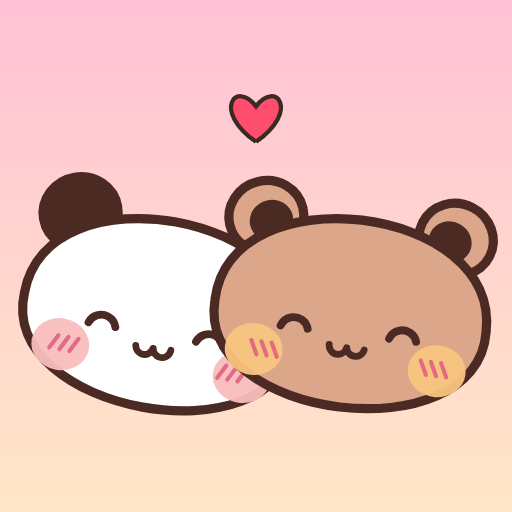
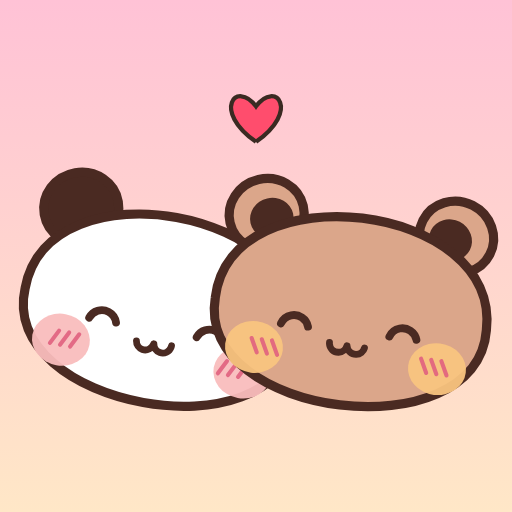
Corp, manute si picioruse intr-o singura silueta moale (fara incheieturi vizibile), si la sofer

diff --git a/src/char/draw.ts b/src/char/draw.ts
@@ -106,55 +106,50 @@ export function drawCharacter(
 
   const bodyFill = p.sickTint > 0 ? mix(spec.body, '#bfe3a6', p.sickTint * 0.45) : spec.body;
 
-  // --- piciorușe scurte (in mare parte ascunse sub burtica) ---
-  for (const side of [-1, 1] as const) {
-    const lift2 = side < 0 ? p.legL : p.legR;
-    const ox = side < 0 ? p.legLx : p.legRx;
+  // Corpul, manutele si piciorusele sunt O SINGURA forma moale (ca la stickere):
+  // intai conturam toate bucatile cu linie dubla, apoi le umplem fara contur,
+  // asa ca nu se mai vad "incheieturi" intre ele.
+  const legPath = (side: -1 | 1) => {
+    const lift2 = side < 0 ? p.legL : p.legR, ox = side < 0 ? p.legLx : p.legRx;
+    ctx.beginPath(); ctx.ellipse(side * 11 + ox, -5 - lift2, 8.5, 6.5, 0, 0, 7);
+  };
+  const bodyPath = () => {
     ctx.beginPath();
-    ctx.roundRect(side * 11 - 7 + ox, -9 - lift2, 14, 10, 6);
-    fillStroke(ctx, bodyFill, O);
-    if (!p.back) { // pernite
-      ctx.fillStyle = spec.id === 'dudu' ? '#c8917a' : spec.id === 'bubu' ? '#4a2a22' : '#ffd3dd';
-      ell(ctx, side * 11 + ox, -3.5 - lift2, 3.4, 2); ctx.fill();
-    }
-  }
-
-  // --- corp: mic si rotofei ca o para ---
-  ctx.save();
-  ctx.translate(p.hip, 0);
-  ctx.beginPath();
-  ctx.moveTo(-18, -34);
-  ctx.bezierCurveTo(-28, -26, -29, -3, -15, -2);
-  ctx.lineTo(15, -2);
-  ctx.bezierCurveTo(29, -3, 28, -26, 18, -34);
-  ctx.closePath();
-  fillStroke(ctx, bodyFill, O);
-  ctx.save(); ctx.clip();
-  ctx.fillStyle = spec.shade; ctx.globalAlpha = 0.4;
-  ell(ctx, 5, -4, 24, 8); ctx.fill();
+    ctx.moveTo(p.hip - 18, -34);
+    ctx.bezierCurveTo(p.hip - 29, -26, p.hip - 30, -4, p.hip - 15, -3);
+    ctx.lineTo(p.hip + 15, -3);
+    ctx.bezierCurveTo(p.hip + 30, -4, p.hip + 29, -26, p.hip + 18, -34);
+    ctx.closePath();
+  };
+  const armTf = (side: -1 | 1, ang: number) => { ctx.translate(side * 19 + p.hip * 0.5, -25); ctx.rotate(side < 0 ? ang : -ang); };
+  const armPath = () => { ctx.beginPath(); ctx.ellipse(0, 5, 6.5, 8.5, 0, 0, 7); };
+  const silhouette = (mode: 'stroke' | 'fill') => {
+    const doIt = () => { if (mode === 'stroke') ctx.stroke(); else ctx.fill(); };
+    for (const side of [-1, 1] as const) { legPath(side); doIt(); }
+    bodyPath(); doIt();
+    for (const [side, ang] of [[-1, p.armL], [1, p.armR]] as const) { ctx.save(); armTf(side, ang); armPath(); doIt(); ctx.restore(); }
+  };
+  ctx.lineJoin = 'round'; ctx.strokeStyle = O; ctx.lineWidth = LW * 2;
+  silhouette('stroke');
+  ctx.fillStyle = bodyFill;
+  silhouette('fill');
+  // umbra moale pe burtica + talpile
+  ctx.save(); bodyPath(); ctx.clip();
+  ctx.fillStyle = spec.shade; ctx.globalAlpha = 0.35; ell(ctx, p.hip + 5, -4, 24, 7); ctx.fill();
   ctx.restore();
-  if (p.back) { // codita
-    ell(ctx, 0, -12, 6, 5.5); fillStroke(ctx, spec.tail, O, 2);
+  if (!p.back) for (const side of [-1, 1] as const) {
+    const lift2 = side < 0 ? p.legL : p.legR, ox = side < 0 ? p.legLx : p.legRx;
+    ctx.fillStyle = spec.id === 'dudu' ? '#c8917a' : spec.id === 'bubu' ? '#4a2a22' : '#ffd3dd';
+    ell(ctx, side * 11 + ox, -2.5 - lift2, 4.2, 2.2); ctx.fill();
   }
-  ctx.restore();
+  if (p.back) { ell(ctx, p.hip, -10, 6, 5.5); fillStroke(ctx, spec.tail, O, 2); }
 
   if (outfit && outfit.neck !== 'none' && !p.back) drawNeckItem(ctx, outfit.neck, time);
-  // --- manute scurte ---
-  const arm = (side: -1 | 1, ang: number, prop: PropType, propRot: number) => {
-    ctx.save();
-    ctx.translate(side * 21 + p.hip * 0.5, -25);
-    ctx.rotate(side < 0 ? ang : -ang);
-    capsule(ctx, 11, 7);
-    fillStroke(ctx, bodyFill, O);
-    if (prop !== 'none') {
-      ctx.translate(0, 11);
-      ctx.rotate(propRot * (side < 0 ? 1 : -1));
-      drawProp(ctx, prop, O, time);
-    }
-    ctx.restore();
-  };
-  arm(-1, p.armL, p.propL, p.propRotL);
-  arm(1, p.armR, p.propR, p.propRotR);
+  // recuzita din labute
+  for (const [side, ang, prop, pr] of [[-1, p.armL, p.propL, p.propRotL], [1, p.armR, p.propR, p.propRotR]] as const) {
+    if (prop === 'none') continue;
+    ctx.save(); armTf(side, ang); ctx.translate(0, 11); ctx.rotate(pr * (side < 0 ? 1 : -1)); drawProp(ctx, prop, O, time); ctx.restore();
+  }
 
   drawHead(ctx, spec, p, time, -56);
   ctx.restore();

diff --git a/src/world/vehicles.ts b/src/world/vehicles.ts
@@ -198,22 +198,25 @@ export function drawDriverSide(c: CanvasRenderingContext2D, spec: CharSpec, x: n
   const fill = (col: string, lw = 2.4) => { c.fillStyle = col; c.fill(); c.strokeStyle = O; c.lineWidth = lw; c.stroke(); };
   // piciorul din spate (mai inchis)
   c.save(); c.globalAlpha = 0.9;
-  c.beginPath(); c.roundRect(-2, -8, 20, 12, 6); fill(dark);
-  c.beginPath(); c.roundRect(12, -5, 11, 15, 5.5); fill(dark);
+  c.beginPath(); c.ellipse(8, -2, 11, 7, 0, 0, 7); fill(dark);
+  c.beginPath(); c.ellipse(17, 7, 6, 8, 0, 0, 7); fill(dark);
   c.restore();
   // mana din spate (pe volan, partial ascunsa)
-  if (drive) { c.save(); c.translate(-2, -24); c.rotate(-0.2 + steer * 0.4); c.beginPath(); c.roundRect(-5, -5.5, 26, 11, 5.5); fill(dark); c.restore(); }
-  // corpul asezat, aplecat putin in fata
-  c.save(); c.rotate(0.12);
-  c.beginPath(); c.moveTo(-17, 2); c.bezierCurveTo(-25, -14, -18, -32, 0, -33); c.bezierCurveTo(18, -33, 24, -14, 16, 2); c.closePath(); fill(body);
-  // codita
-  c.beginPath(); c.arc(-15, -4, 5, 0, 7); fill(spec.tail, 1.8);
-  c.restore();
-  // piciorul din fata: coapsa inainte, gamba in jos spre pedala, talpa cu pernite
-  c.beginPath(); c.roundRect(-2, -10, 23, 13, 6.5); fill(body);
-  c.beginPath(); c.roundRect(14, -6, 12, 16, 6); fill(body);
-  c.beginPath(); c.ellipse(21, 11, 8, 4.5, 0, 0, 7); fill(body);
-  c.fillStyle = pad; c.beginPath(); c.ellipse(23, 12.5, 3.4, 2, 0, 0, 7); c.fill();
+  if (drive) { c.save(); c.translate(-2, -24); c.rotate(-0.2 + steer * 0.4); c.beginPath(); c.ellipse(10, 0, 12, 6, 0, 0, 7); fill(dark); c.restore(); }
+  // corpul, piciorul din fata si manuta din fata = o singura forma moale (fara "incheieturi")
+  const parts = (mode: 'stroke' | 'fill') => {
+    const go = () => (mode === 'stroke' ? c.stroke() : c.fill());
+    c.save(); c.rotate(0.12); c.beginPath(); c.moveTo(-17, 2); c.bezierCurveTo(-25, -14, -18, -32, 0, -33); c.bezierCurveTo(18, -33, 24, -14, 16, 2); c.closePath(); go(); c.restore();
+    c.beginPath(); c.ellipse(10, -3, 13, 8.5, 0, 0, 7); go();          // coapsa
+    c.beginPath(); c.ellipse(21, 6, 6.5, 9, 0, 0, 7); go();             // gamba
+    c.beginPath(); c.ellipse(23, 12, 7.5, 4.5, 0, 0, 7); go();          // talpa
+    if (drive) { c.save(); c.translate(4, -22); c.rotate(-0.15 + steer * 0.4); c.beginPath(); c.ellipse(11, 0, 13, 7, 0, 0, 7); go(); c.restore(); }
+    else { c.save(); c.translate(4, -24); c.rotate(-2.3 + Math.sin(t * 8) * 0.3); c.beginPath(); c.ellipse(9, 0, 11, 6.5, 0, 0, 7); go(); c.restore(); }
+  };
+  c.strokeStyle = O; c.lineWidth = 5.4; parts('stroke');
+  c.fillStyle = body; parts('fill');
+  c.fillStyle = pad; c.beginPath(); c.ellipse(25, 13, 3.4, 2, 0, 0, 7); c.fill();
+  c.beginPath(); c.arc(-15, -4, 5, 0, 7); fill(spec.tail, 1.8); // codita
   // capul din profil: mare si rotund (ca la stickere), fata spre dreapta
   c.save(); c.translate(6, -56); c.rotate(-0.04 + steer * 0.12);
   const earCol = spec.ear, inner = spec.earInner;
@@ -236,9 +239,6 @@ export function drawDriverSide(c: CanvasRenderingContext2D, spec: CharSpec, x: n
   c.beginPath(); c.moveTo(26, 9); c.quadraticCurveTo(28, 11, 30, 9); c.quadraticCurveTo(30.5, 15, 27, 15.5); c.quadraticCurveTo(25, 14, 26, 9); c.closePath();
   c.fillStyle = '#ff8a9a'; c.fill(); c.lineWidth = 1.8; c.stroke();
   c.restore();
-  // mana din fata: pe volan (sau salut, ca pasager)
-  if (drive) { c.save(); c.translate(4, -24); c.rotate(-0.15 + steer * 0.4); c.beginPath(); c.roundRect(-5, -6, 25, 12, 6); fill(body); c.beginPath(); c.arc(21, 0, 7, 0, 7); fill(body); c.restore(); }
-  else { c.save(); c.translate(4, -26); c.rotate(-2.3 + Math.sin(t * 8) * 0.3); c.beginPath(); c.roundRect(-5, -5.5, 26, 11, 5.5); fill(body); c.restore(); }
   c.restore();
   // volanul (desenat peste labute), doar pentru sofer
   if (drive) {
